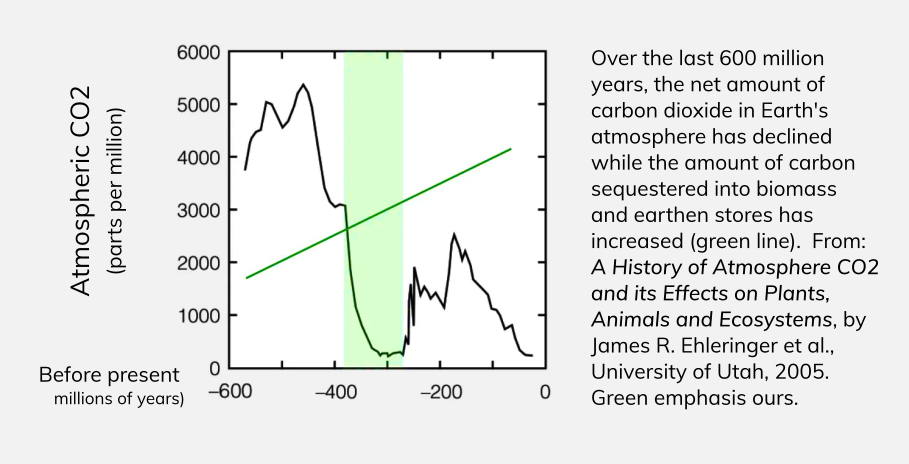
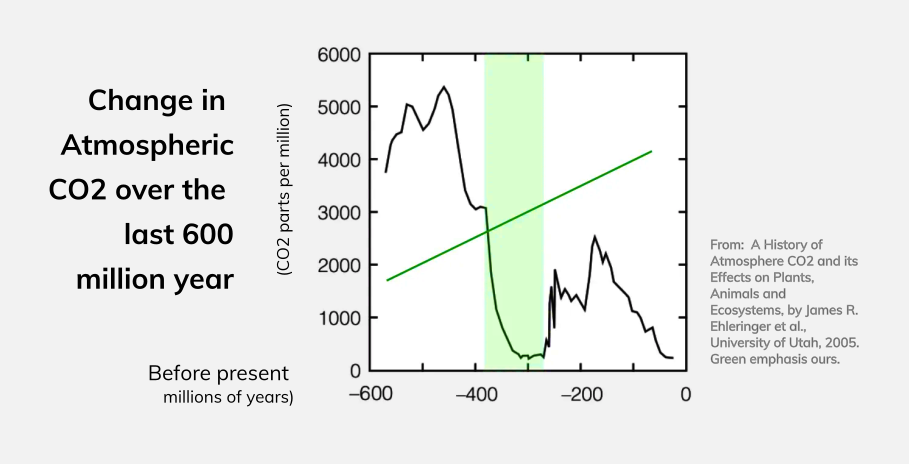
up

Changed region(s): [[0.0308, 0.0905, 0.9857, 0.875]]

diff --git a/en/matter.html b/en/matter.html
@@ -364,7 +364,7 @@ display: none;
 
 <div class="page-paragraph">
     <p id="en-2-3-01"><i>
-    Three hundred million years ago, Earth’s oceans were full of swirls of spiralling matter swiming merrily about.  Just as fish are ubiquitous in our oceans today, for millions of years the ancient ammonite swam abundantly in the seas of the Mezoic.  Famous for its spiral fossilized shell, the now extinct amonite had much in common with moluscs of today.  Like the clams and oysters that we know well, the ammonite sieved loose particles of carbon and calcium out of the water to synthesis its shell.  And just like the mollusks of today, its defecations, shell and corpose would inevitably float down to the ocean floor.  Over time, the relentless rain of expired ammonites, accompanied by the carcasses of other marine creatures and their excretions, accumulated.  As layer upon layer of sediment pressed down upon another, steadily, all the carbon and calcium that each ammonite had gathered was compacted into stone. Over millions of years, the lives of trillions of marine creatues spun countless tons of bicarbonate into geological sequestration.  Today, as a fossil, we can hold an ammoniate's ecological contribution in our hand. In helping to add to the vast limestone deposits of today, over time, the ammonite's relentless subtraction of carbon helped reduced the net acidity of the oceans, making the waters more hospitable homes for countless other creatures to thrive.</i>
+    Three hundred million years ago, Earth’s oceans were full of swiming swirls of spiralling matter.  Just as fish are ubiquitous in our oceans today, for millions of years the ammonite could be found throughout the ancient Mezoic seas.  Famous for its fossilized spiral shell, the now extinct amonite had much in common with the moluscs of today.  Just like the clams and oysters that we know well, the ammonite sieved loose particles of carbon and calcium out of the water to synthesis its shell.  And just like the mollusks of today, its defecations, shell and body would inevitably sink at the end of its life.  Over time, the relentless rain of expired ammonites, accompanied by the carcasses of other marine creatures and their excretions, accumulated on the ocean floor.  As layer upon layer of pressed down upon another, all the carbon and calcium that an ammonite had gathered was compacted into stone. Over millions of years, the lives of trillions of marine creatues spun countless tons of bicarbonate into geological sequestration.  In helping to add to the vast limestone deposits of today, over time, the ammonite's relentless subtraction and sequestration helped reduced the carbon-caused acidity of the oceans, making the waters more hospitable homes for countless other creatures to thrive.</i>
      </p></div>
     <br><br>
      <div id="line" style="margin-bottom: 30px;"></div>
@@ -372,10 +372,11 @@ display: none;
     <div>
     <div class="lead-page-paragraph"><p id="en-2-3-02">
 
-      <!--THE WAY IN WHICH THE ANCIENT AMMONITE managed it matter to build its own home and steadily enrich the common home that it shared with other creatures, is an example that can guide and inspire us today.-->
-    Today's mollusks, just like the ancient ammonite, manage their matter to both build their own home and steadily enrich the common home they share with other creatures.  It is an example that can guide and inspire us today.   In particular, in how it embodies and illustrates our next Earthen ethic.
+      <!--THE WAY IN WHICH THE ANCIENT AMMONITE managed it matter to build its own home and steadily enrich the common home that it shared with other creatures, is an example that can guide and inspire us today.  -->
+     TODAY, in its fossilized form, we can hold an ammonite's ecological contribution in the palm of our hand.  Just like today's mollusks, the way that the ammonite built both its own home and  enriched the common home that it shared with other creatures, provides us with an example that can guide and inspire us today.   In particular, the way in which these mollusks embody the Earthen ethic of matter management.
+     </div>
 
-    <p>In our last chapter, we saw how the outward spin of <i>energy</i> is characteristic of Earth’s pattern.  Now, looking closely at the manner of the mollusks, we can discern another characterstic spiral-- a  tendency to steadily spin the principal elements of a system into concentration and sequestration.  As we shall see, it is a tendency found in all enriching Earthen systems and a characteristic of Earth's transition from barren to biosphere. Through the lense of this third Earthen ethic, we can deepen our appreciation of the ecological enrichment wrought by the Igorots and other cyclocentric cultures.  And by understanding their human example, we gain a new perspective to evaluate our modern management of matter: in particular the fundamental problems with our modern goals of "net-zero" and "zero-waste".  With the Earth's example as a guide, we can then be sure the way our processes, products and systems manage their carbon and other elements are truly are green.</p>
+    <p>In our last chapter, we saw how the outward spin of <i>energy</i> is characteristic of Earth’s pattern.  Now, looking closely at the manner of the mollusks, we can discern another characterstic spiral-- a  tendency to steadily spin the principal elements of a system into concentration and sequestration.  As we shall see, it is a characteristic of Earth's transition from barren to biosphere and a tendency found in an Earth's enriching systems. Through the lens of this third Earthen ethic, we can deepen our appreciation of the ecological enrichment wrought by the Igorots and other cyclocentric cultures.  And by understanding their human example, we gain a new perspective to evaluate our modern attempts at "net-zero" and "zero-waste".  With the Earth's example as a guide, we can then be sure the way our processes, products and systems manage their carbon and other elements are truly are green.</p>
       </div>
 
     <div class="page-paragraph">
@@ -384,52 +385,55 @@ display: none;
 
       <p id="en-2-3-04">As we saw in Earth's <a href="stellar.html">stellar story</a>, our solar system's planets formed five billion years ago as interstellar debris steadily swirled together.  This coalescence of matter into planet Earth is in fact a process that has never ceased.</p>
 
-      <p id="en-2-3-05">On our planet (and on all others) meteors continue to fall; geology, atmosphere and oceans all continue to spin and spiral– ever churned by the ever arriving blaze of the sun.<a href="#footnotes" onclick="openFootnotes()" title="‘The world is a vampire’ as The Smashing Pumpkins sang: a vampire living from the death of the sun. The universe must die to keep living.” Thomas Nail (2021), Theory of the Earth, Standford University Press.">⁷⁷</a></p>
+      <p id="en-2-3-05">On our planet (and on all others) meteors continue to fall; geology, atmosphere and ocean all continue to spin and spiral– ever churned by the ever arriving blaze of the sun.<a href="#footnotes" onclick="openFootnotes()" title="‘The world is a vampire’ as The Smashing Pumpkins sang: a vampire living from the death of the sun. The universe must die to keep living.” Thomas Nail (2021), Theory of the Earth, Standford University Press.">⁷⁷</a></p>
 
+      <!--IMAGE OF PLANETS-->
       <div class="chart-image-desktop">
         <img src="../photos/planet-vortexes.png" style="width:100%" alt="Spirals of matter with geometry unique to their planet form on Saturn, Jupiter and Mars.">
               
-        <div class="chart-caption" >Spirals of matter with geometry unique to their planet form on Saturn, Jupiter and Mars.</div>
+        <div class="chart-caption" ><b>Figure 1:</b> Unique spiral geometries form on Saturn, Jupiter and Mars as a result of each planet's cosmological charater.</div>
       </div>
 
       <div class="chart-image-mobile">
         <img src="../photos/planet-vortexes-mobile.png" style="width:100%" alt="Spirals of matter with geometry unique to their planet form on Saturn, Jupiter and Mars.">
               
-        <div class="chart-caption" >Spirals of matter with geometry unique to their planet form on Saturn, Jupiter and Mars.</div>
+        <div class="chart-caption" ><b>Figure 1:</b>  Unique spiral geometries form on Saturn, Jupiter and Mars as a result of each planet's cosmological charater.</div>
       </div>
+      <!--IMAGE OF PLANETS-->
 
       <p id="en-2-3-06">However, on each planet, the way that matter churns is unique.</p>
       
-      <p>On Venus, Jupiter and Saturn, the prevalence of certain principal elements— sulfur, hydrogen and helium— dominated and determinined the character of their spirals.  From Venus sulfuric acid dipole vortexes, to Jupiters' polygonal vortex patterns of hydrogen and helium, to Saturn's hexagonal hydrogen polar vortex, the way each planet spirals its primary elements is a direct reflection of its unique configuration of orbit, spin, chemistry, magnetosphere, mass, momentum and more.  Consequently, vortexes unfold with their own unique geometric character. </p>
+      <p>On Venus, Jupiter and Saturn, the prevalence of certain principal elements— sulfur, hydrogen and helium— dominates and determinines the character of their spirals.  From Venus sulfuric acid dipole vortexes, to Jupiters' polygonal vortex patterns of hydrogen and helium, to Saturn's hexagonal hydrogen polar vortex, the way each planet spirals its primary elements is a direct reflection of its unique configuration of orbit, spin, chemistry, magnetosphere, mass, momentum and more.  Consequently, vortexes unfold with their own unique geometric character (see Figure 1). </p>
       
      
-     <p id="en-2-3-07"> On our planet, Earth's unique combination of carbon, oxygen and hydrogen-- not to mention Earth's particular solar distance, orbit and moon-- are churned by the ever arriving blaze of the sun, to spin with their own charateristic spiral.</p>
+     <p id="en-2-3-07">Meanwhile, our planet's unique combination of carbon, oxygen and hydrogen have been continuously churned by the ever arriving blaze of the sun.  The systemic cycles that result spin with their own charateristic Earthen spiral.</p>
 
-     <p id="en-2-3-08">As we saw in Earth's stellar story, the thermodynaic imperative of dissipation, compelled carbon to come together into more and more complex systems.  Steadily, as early cellular systems unfurled, they gathered the abundant loose carbon from the atmosphere to build their bodies.  As early organisms evolved, their own intricate patterns of carbon began to come together.  And to unfurl.</p>
+     <p id="en-2-3-08">As we saw in Earth's stellar story, the thermodynaic imperative of dissipation, compelled its carbon to come together into more and more complex systems.  Steadily, as early systems unfurled, they gathered the abundant loose carbon from the atmosphere to unfold ever more effective energetic cycles and material forms.</p>
      
      <p id="en-2-3-09">Like the ammonite!</p>
      
-     <p id="en-2-3-10">But also, just like trees, fish and fungi.  Steadily, as generations of mollusks, plants, fungi animals and insects lived and died, the matter that they had concentrated into their bodies fell to the ground.  Steadily, in the sea as well as on land, their fallen matter was then covered up by the fall of the next.</p>
+     <p id="en-2-3-10">But also, just like trees, fish and fungi.  Steadily, as generations of mollusks, plants, fungi animals and insects lived and died, the matter that they had concentrated into their forms fell to the ground.  Steadily, layer upon layer of fallen life, was covered up by the fall of the next.</p>
 
-     <p id="en-2-3-11">Although these organisms all added CO2 back into their environment through their exhalations and excretions, with each cycle of life and death, they tended to concentrate more carbon than they let out loose.  Be it on the floor of an ocean or of a forest, slowly and steadily, layers of life were buried one upon the other.  Over hundreds of millions of years, the inexorable accumulation of these ancient organisms became compacted deep underground.  In the case of the ammonite, as more and more of their carbonate shells, bodies and excretions fell downwards, it meant that more and more carbon was being effectively subtracted from the water's themselves.  This in turn enabled the ocean's to absorb more carbon dioxide from the atmosphere above.</p>
+     <p id="en-2-3-11">Although these organisms all added carbon into the air through their exhalations, with each cycle of life and death, they tended to concentrate more carbon into themselves than they let out loose.  Over hundreds of millions of years, the inexorable accumulation of these ancient organisms became compacted deep underground.  In the case of the ammonite, as more and more of their carbonate shells, bodies and excretions fell downwards, it meant that more and more carbon was being effectively subtracted from the water's themselves.  This in turn enabled the ocean's to absorb more carbon dioxide from the atmosphere above.</p>
 
-     
+           <!--IMAGE OF CO2 chart-->
+
 <div class="chart-image-desktop">
   <img src="../photos/carbon-sequestration-desktop.png" style="width:100%" alt="The Carboniferous age, its trees and forests, embody in dramatic fashion the fourth phenomenon that has characterized the Earth’s greening of the biosphere.">
         
-  <div class="chart-caption" >Figure 1*78.</div>
+  <div class="chart-caption"><b>Figure 2.</b> Over the last 600 million years, the net amount of carbon dioxide in Earth's atmosphere has declined while the amount of carbon sequestered into biomass and earthen stores has increased (green line). Green line and emphasis ours.<a href="#footnotes" onclick="openFootnotes()" title="A History of Atmosphere CO2 and its Effects on Plants, Animals and Ecosystems, by James R. Ehleringer et al., University of Utah, 2005. ">⁷⁷</a></div>
 </div>
 
 <div class="chart-image-mobile">
-  <img src="../photos/carbon-sequestration-mobile.webp" style="width:100%" alt="The Carboniferous age, its trees and forests, embody in dramatic fashion the fourth phenomenon that has characterized the Earth’s greening of the biosphere">
+  <img src="../photos/carbon-sequestration-mobile.png" style="width:100%" alt="The Carboniferous age, its trees and forests, embody in dramatic fashion the fourth phenomenon that has characterized the Earth’s greening of the biosphere">
         
-  <div class="chart-caption" >Figure 1. Over the last 600 million years, the net amount of carbon dioxide in Earth's atmosphere has declined while the amount of carbon sequestered into biomass and earthen stores has increased (green line).  From:  <i>A History of Atmosphere CO2 and its Effects on Plants, Animals and Ecosystems</i>, by James R. Ehleringer et al., University of Utah, 2005.  Green emphasis ours.  </div>
+  <div class="chart-caption" ><b>Figure 2.</b> Over the last 600 million years, the net amount of carbon dioxide in Earth's atmosphere has declined while the amount of carbon sequestered into biomass and earthen stores has increased (Green line).  Green line and emphasis ours. <a href="#footnotes" onclick="openFootnotes()" title="A History of Atmosphere CO2 and its Effects on Plants, Animals and Ecosystems, by James R. Ehleringer et al., University of Utah, 2005. ">⁷⁷</a></div>
 
 </div>
 
      <p id="en-2-3-12">With the life cycles of innumerable organisms systematically subtracting more carbon than they added, soon vast quantities were stored out of the atmosphere and into geological storage.  With so much carbon sequestered into geological storage, its ocean's reduced in acidity and the atmospheric carbon content declined.</p>
 
-     <p id="en-2-3-13">While its impossible to determine today, just how much carbon the ammonites themselves were responsible for, studies of modern mollusks show that the potential is significant.  In the case of the forests of the carboniferous period, 100 million years before, the net substraction was dramatic.  The subtraction of carbon from the cycles of plants, trees, forests and algae was so substantial that it lead to million of year ice ages.  Despite such extremes however, this pattern of steady subtraction served to counter balance inevitable planetary moments of release– such as forest fires, volcanoes and meteor strikes.  In this way, over the course of the planet's last 600 million years, as trillions of carbon-based organisms lived and died, on the whole the planet's climate tended steadily towards stabilization.</p>
+     <p id="en-2-3-13">While its impossible to determine today just how much carbon the ammonites themselves were responsible for, studies of modern mollusks show that the potential is significant.  In the case of the forests of the carboniferous period, 100 million years before, the net substraction was dramatic.  The subtraction of carbon from the cycles of plants, trees, forests and algae was so substantial that it lead to million of year ice ages.  Despite such extremes however, this pattern of steady subtraction served to counter balance inevitable planetary moments of release– such as forest fires, volcanoes and massive meteor strikes.  In this way, over the course of the planet's last 600 million years, as trillions of carbon-based organisms lived and died, on the whole, the planet's climate tended steadily towards stabilization.</p>
 
      <p id="en-2-3-14">And even more life was able to flourish in abundance and diversity.</p>
 
@@ -437,15 +441,15 @@ display: none;
       
       <p id="en-2-3-00"> Over time the spiral of the Ammonite’s life-cycle lead to the sequestration of countless tons of carbon into geological storage.  Today, parts of Earth's vast limestone deposits are their legacy— as well as atmosphere and oceans containing far less carbon than before.  In this way,  the Ammonite made not only made their own home, they made their common home livable and more hospitable for others.</p>-->
 
-     <p id="en-2-3-15">This dynamic of matter management can be found in kincentric cultures and cyclocentric nations around the world.(see our definition of the term cyclocentic in Chapter 5)</p>
+     <p id="en-2-3-15">This dynamic of matter management can be found in kincentric cultures and cyclocentric nations around the world (see our definition of the term cyclocentic in Chapter 5)</p>
 
-     <p id="en-2-3-16">As we saw earlier, the lives of the Igorot people of Northern Luzon are guided by their <i>ayyew</i> ecological ethos.  This ethos guided the way that the Igorots managed the matter that passed through their hands and bodies. From farming, to eating; from discarding, to defecating, the way in the Igorots embodied ayyew in their process resulted not in "waste" (their is no such concept in the Igorot language) but in "logits" (or, roughly translated "fertilizer").</p>
+     <p id="en-2-3-16">As we saw earlier, the lives of the Igorot people of Northern Luzon are guided by their <i>ayyew</i> ecological ethos.  This ethos inspired the way that the Igorots managed the matter that passed through their hands and bodies. From farming, to eating; from discarding, to defecating, the way in the Igorots embodied ayyew in their process resulted not in "waste" (there is no such concept in the Igorot language) but in "logits" (or, roughly translated "fertilizer").</p>
 
-     <p id="en-2-3-17">Each Igorot household home had a <i>lomeng</i>— a submerged enclosure where the family pig was kept.  However, these were much more than pig stalls.  Lomeng were used to discard everthing from overcooked rice, grass clippings.  They were also used as a toilet.  The pigs would consume almost everything given to them!  They would grow fat and provide rich manure to fertilize the families gardens and fields— essentially concentrating the various forms of carbon biomass given to them into even more concentrated and nutrient rich biomass.</p>
+     <p id="en-2-3-17">Each Igorot household home had a <i>lomeng</i>— a submerged enclosure where the household's pig was kept.  However, these were much more than pig pens.  Lomeng were used to discard everthing from overcooked rice, grass clippings.  They were also used as a toilet.  The pigs would consume almost everything given to them.  They would grow fat and provide rich manure to fertilize the families gardens and fields— essentially concentrating the various forms of carbon biomass given to them into even more concentrated and nutrient rich biomass.</p>
      
      <p id="en-2-3-18">Over, countless lifecycles of fiels, pigs and humans this process lead to the steadily concentration of carbon, nitogen and phosphos— the prinpal elements of their ecosystem—  back into the soil.  This lead to ever more fertile fields and healthy and well nourished Igorot communities.</p>
 
-     <p id="en-2-3-00">As we strive to ensure our human enterprises are green, the ways of Igorots, the Ammonites and of the Earth show us the way forward.</p>
+     <p id="en-2-3-00">As we strive to ensure our human enterprises are green, non-waste-way of the Igorots points us towards our third Earthen ethic.</p>
 
      <p id="en-2-3-19">Just as the Earth tended it’s cycles towards the inward spiral of matter, so must we intend and achieve the same with our own.  Only when the intention and the result of our cycles is the net concentration of their active elements, are we following the pattern of our planet.  Only then is the third Earthen ethic met. Only then can our acts and enterprises be considered ecological contributions— and green.</p>
 
@@ -456,11 +460,13 @@ display: none;
      -->
      <p id="en-2-3-21">Perhaps the most tangible example of our modern use of carbon, is of plastic.  As we saw in Plastic's Stellar story, plastic is a by-product of the refinement of petroleum to make fuels.  As we send our used plastic off to far off factories to be processed, dumped or incinerated, our industrial processes begin again with new material.  Having originated from a concentrated form under the earth to be dispersed over the surface of the planet, we can clearly observe that the outwards spin of plastic industrial cycles is contrary to the inward spiral of the Earth's.</p>
 
-     <p id="en-2-3-22">What then are we to make of modern attempts at green— such goals as "net-zero" and "zero-waste"?</p>
+     <p id="en-2-3-22">What then are we to make of modern industrial attempts to reduce harm and environmental exploitation?  What about goals such as "net-zero" and "zero-waste"?</p>
 
-     <p id="en-2-3-23">In so far as these goals seek to reduce and balance the outputs of our process to zero, they are a step in the right direction.  However, from an Earthen perspective we can see that they their geometry is lacking.</p>
+     <p id="en-2-3-23">In so far as these goals seek to reduce and balance the outputs of our process to zero, they are a step in the right direction.  However, from an Earthen perspective we can see that geometrically, they are fundamentally lacking.</p>
 
-     <p id="en-2-3-24">As we saw in the example of the Igorots, every molecule of matter in the processes of the Igorots, once its nutrient energy had been extracted, was returned back into the cycles of life around in them in a denser form than before.  With the rice plants extracting loose carbon from the air, condensing it in to rice, and Igorot cultivation continuing the downward spiral into further concentration, steadily more and more carbon was sequestered into biomass and into the soil itself.</p>
+     <!--missing !!! -->
+
+     <p id="en-2-3-24">As we saw in the example of the Igorots, once the nutrient energy of the matter that passed through their hands had been extrated, the principal elements tended to be returned to the cycles of life in a denser form than before.  With the rice plants extracting loose carbon from the air, condensing it in to rice, and Igorot cultivation continuing the downward spiral into further concentration, steadily more and more carbon was sequestered into biomass and into the soil itself.</p>
 
      <p id="en-2-3-25">As we develop enterprises, technologies and industries to be green, the requisite geometry by which they must manage their matter is clear.</p>
 

diff --git a/en/imagine.html b/en/imagine.html
@@ -258,7 +258,7 @@ For footnotes, use these numbers:  ¹ ² ³ ⁴ ⁵ ⁶ ⁷ ⁸ ⁹  ⁰
 
 
 
-    <p id="en-1-1-01">Inspired by the verdant legacy of Banayan’s people, the Igorots of Northern Luzon<a href="#footnotes" title="In particular the Igorot Ayyew ecological ethos.  See: Banayan Angway, Cordillera Administrative Region Indigenous Peoples Education Curriculum K-12 (Bontoc, Mountain Prov., CAR; Philippines Department of Education, 2014)." onclick="openFootnotes()" >³</a>, she and I have to come to see that the longing and the potential for ecological contribution unites us all on planet Earth.</p>
+    <p id="en-1-1-01">Inspired by the verdant legacy of Banayan’s people, the Igorots of Northern Luzon,<a href="#footnotes" title="In particular the Igorot Ayyew ecological ethos.  See: Banayan Angway, Cordillera Administrative Region Indigenous Peoples Education Curriculum K-12 (Bontoc, Mountain Prov., CAR; Philippines Department of Education, 2014)." onclick="openFootnotes()" >³</a> she and I have to come to see that the longing and the potential for ecological contribution unites us all on planet Earth.</p>
 
     <p id="en-1-1-02">Across cultures and continents, we long to contribute to that which we are part: to add to the communities in which we belong, to harmonize with our neighbours, to sync with those with whom we share space.  Consequently, as the parts we play in our local ecosystems and global biomes becomes clearer, so too does our yearning to participate positively in them and contribute to their harmony, vitality and abundance.  
     </p>

diff --git a/en/awareness.html b/en/awareness.html
@@ -4,7 +4,7 @@
 <title>The Means of the Mycorryzal | Tractatus Ayyew - An Earthbook</title>
 <meta charset="UTF-8"> 
 
-
+                               
 <!--
 o               .        ___- -___                    .                   
        .              .-\          -.     .     .         .
